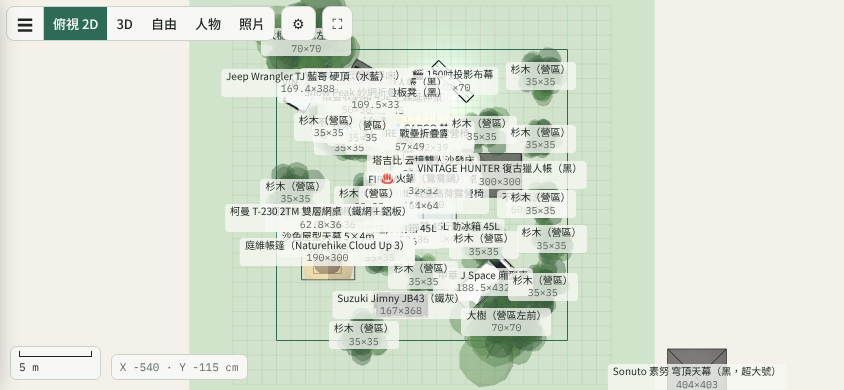
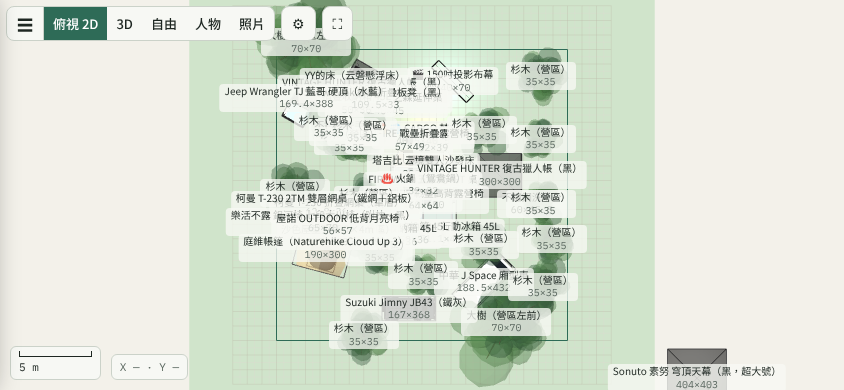
Update page to v30: phone joystick controls for walk/free views
Claude-Session: https://claude.ai/code/session_015AG5FpWVGwHVAoYj3Q14zK

Changed region(s): [[0.2464, 0.4923, 0.6161, 0.8308], [0.2464, 0.1538, 0.4929, 0.3385], [0.154, 0.8923, 0.3081, 0.9846]]

diff --git a/index.html b/index.html
@@ -91,6 +91,19 @@ input:focus-visible,select:focus-visible,button:focus-visible,textarea:focus-vis
 .overlay .empty{background:var(--panel);pointer-events:auto;max-width:320px;text-align:center}
 .photo{position:absolute;right:10px;bottom:10px;z-index:3;width:min(280px,calc(100% - 20px));background:var(--panel);border:1px solid var(--line);border-radius:8px;padding:10px;display:flex;flex-direction:column;gap:6px;font-size:12px;max-height:calc(100% - 70px);overflow:auto}
 .photo input[type=range]{width:100%}
+/* phone 人物/自由 controls: game-style translucent joystick on the right, round action buttons on the left */
+.fpTouch{position:absolute;inset:0;z-index:3;pointer-events:none;user-select:none;-webkit-user-select:none}
+.fpTouch[hidden]{display:none}
+.fpAct{position:absolute;left:max(14px,env(safe-area-inset-left,0px));bottom:16px;display:flex;flex-direction:column-reverse;gap:10px;pointer-events:auto}
+.fpRound{width:58px;height:58px;border-radius:50%;border:1.5px solid rgba(255,255,255,.55);background:rgba(20,25,22,.38);color:#fff;font-size:20px;line-height:1;display:flex;flex-direction:column;align-items:center;justify-content:center;gap:2px;cursor:pointer;touch-action:none;backdrop-filter:blur(3px);-webkit-backdrop-filter:blur(3px);text-shadow:0 1px 2px rgba(0,0,0,.5)}
+.fpRound span{font-size:10px;font-weight:700}
+.fpRound[aria-pressed="true"],.fpRound.on{background:rgba(76,175,130,.7);border-color:#fff}
+.joy{position:absolute;right:max(26px,env(safe-area-inset-right,0px));bottom:22px;width:150px;height:150px;border-radius:50%;background:radial-gradient(circle,rgba(255,255,255,.10) 0 55%,rgba(255,255,255,.22) 56% 100%);border:2px solid rgba(255,255,255,.5);pointer-events:auto;touch-action:none;backdrop-filter:blur(2px);-webkit-backdrop-filter:blur(2px)}
+.joyKnob{position:absolute;left:50%;top:50%;width:64px;height:64px;margin:-32px 0 0 -32px;border-radius:50%;background:rgba(255,255,255,.55);border:2px solid rgba(255,255,255,.85);box-shadow:0 2px 8px rgba(0,0,0,.3);transition:transform .12s}
+.joy.on .joyKnob{transition:none;background:rgba(255,255,255,.75)}
+.joyHint{position:absolute;left:50%;bottom:10px;transform:translateX(-50%);font-size:11px;color:#fff;background:rgba(0,0,0,.35);padding:3px 10px;border-radius:12px;white-space:nowrap;transition:opacity .6s}
+body.touchFP .fp{display:none!important}
+body.touchFP #hud{display:none}
 .fp{position:absolute;right:10px;bottom:10px;z-index:3;background:var(--panel);border:1px solid var(--line);border-radius:8px;padding:10px;display:flex;flex-direction:column;gap:8px;font-size:12px;align-items:center;user-select:none;-webkit-user-select:none;max-width:calc(100% - 20px)}
 .fpHelp{color:var(--muted,#777);line-height:1.5;max-width:220px}
 .fpPad{display:grid;grid-template-columns:repeat(3,44px);gap:4px}
@@ -184,6 +197,17 @@ body.hideSide aside{display:none}
       </div>
       <div class="labels" id="labels"></div>
       <div class="hud" id="hud"><div class="scale" id="scale"><div class="bar" id="scaleBar"></div><span id="scaleTxt">100 cm</span></div><div class="coord" id="coord">X — · Y —</div></div>
+      <div class="fpTouch" id="fpTouch" hidden>
+        <div class="fpAct" id="fpAct">
+          <button class="fpRound" data-pose="stand" aria-pressed="true">🧍<span>站</span></button>
+          <button class="fpRound" data-pose="sit" aria-pressed="false">🪑<span>坐下</span></button>
+          <button class="fpRound" data-pose="lie" aria-pressed="false">🛌<span>躺下</span></button>
+          <button class="fpRound" data-k="up" aria-label="上升">⬆<span>升</span></button>
+          <button class="fpRound" data-k="down" aria-label="下降">⬇<span>降</span></button>
+        </div>
+        <div class="joy" id="joy" aria-label="移動搖桿"><div class="joyKnob" id="joyKnob"></div></div>
+        <div class="joyHint" id="joyHint">右邊搖桿移動・拖曳畫面看四周</div>
+      </div>
       <div class="fp" id="fpPanel" hidden>
         <div class="fpHelp" id="fpHelp"></div>
         <div class="fpPad">
@@ -1117,7 +1141,7 @@ function updateOverlay(){
   m.textContent = msg; o.hidden = !msg;
   topCtl.enabled = U.tab==="layout" && U.view==="top"; perCtl.enabled = U.tab==="gear" || U.view==="3d";
   $("#hud").hidden = U.tab==="gear"; $("#photoPanel").hidden = !(U.tab==="layout" && U.view==="photo");
-  $("#fpPanel").hidden = !isFP(); if(isFP()) fpPanelUI();
+  $("#fpPanel").hidden = !isFP(); if(isFP()) fpPanelUI(); touchUI();
 }
 
 /* photo mode */
@@ -1206,7 +1230,24 @@ const POSE_EYE = {sit:105, lie:28};
 function eyeH(){ return POSE_EYE[FP.pose] || FP.eye; }
 function setPose(p){ const was=FP.pose; FP.pose=p; FP.y=eyeH();
   if(p==="lie") FP.pitch=0.75; else if(was==="lie") FP.pitch=-0.08;
-  document.querySelectorAll("#fpPose [data-pose]").forEach(b=>b.setAttribute("aria-pressed", String(b.dataset.pose===p))); fpApply(); }
+  document.querySelectorAll("[data-pose]").forEach(b=>b.setAttribute("aria-pressed", String(b.dataset.pose===p))); fpApply(); }
+$("#fpAct").addEventListener("click", e => { const b=e.target.closest("[data-pose]"); if(b) setPose(b.dataset.pose); });
+/* joystick: drag the knob; up = forward, sideways = step left/right, further = faster */
+FP.joy={f:0,st:0};
+(function(){ const J=$("#joy"), K=$("#joyKnob"), R=75; let id=null, cx=0, cy=0;
+  const set=(dx,dy)=>{ const d=Math.hypot(dx,dy), m=Math.min(1,d/R)/(d||1); const x=dx*m*R, y=dy*m*R; K.style.transform=`translate(${x}px,${y}px)`; FP.joy={f:-y/R, st:x/R}; };
+  J.addEventListener("pointerdown", e=>{ e.preventDefault(); e.stopPropagation(); id=e.pointerId; J.setPointerCapture(id); const r=J.getBoundingClientRect(); cx=r.left+r.width/2; cy=r.top+r.height/2; J.classList.add("on"); set(e.clientX-cx,e.clientY-cy); const h=$("#joyHint"); if(h) h.style.opacity="0"; });
+  J.addEventListener("pointermove", e=>{ if(e.pointerId!==id) return; set(e.clientX-cx,e.clientY-cy); });
+  const end=e=>{ if(e.pointerId!==id) return; id=null; J.classList.remove("on"); K.style.transform=""; FP.joy={f:0,st:0}; };
+  ["pointerup","pointercancel","lostpointercapture"].forEach(ev=>J.addEventListener(ev,end));
+  const A=$("#fpAct");
+  A.addEventListener("pointerdown", e=>{ const b=e.target.closest("[data-k]"); if(!b) return; e.preventDefault(); FP.keys[b.dataset.k]=true; b.classList.add("on"); b.setPointerCapture(e.pointerId); });
+  ["pointerup","pointercancel","lostpointercapture"].forEach(ev=>A.addEventListener(ev, e=>{ const b=e.target.closest("[data-k]"); if(!b) return; FP.keys[b.dataset.k]=false; b.classList.remove("on"); }));
+})();
+const coarse = matchMedia("(pointer:coarse)");
+function touchUI(){ const on = isFP() && coarse.matches; document.body.classList.toggle("touchFP", on); $("#fpTouch").hidden=!on;
+  if(on){ const walk=U.view==="walk"; document.querySelectorAll("#fpAct [data-pose]").forEach(b=>b.hidden=!walk); document.querySelectorAll("#fpAct [data-k]").forEach(b=>b.hidden=walk); } }
+coarse.addEventListener && coarse.addEventListener("change", touchUI);
 $("#fpPose").addEventListener("click", e => { const b=e.target.closest("[data-pose]"); if(b) setPose(b.dataset.pose); });
 function fpPanelUI(){
   const walk = U.view==="walk";
@@ -1232,6 +1273,7 @@ function fpStep(){
   if(k.left) FP.yaw+=turn; if(k.right) FP.yaw-=turn;
   const fx=-Math.sin(FP.yaw), fz=-Math.cos(FP.yaw), rx=Math.cos(FP.yaw), rz=-Math.sin(FP.yaw);
   let f=(k.fwd?1:0)-(k.back?1:0), st=(k.sr?1:0)-(k.sl?1:0);
+  if(FP.joy && (FP.joy.f||FP.joy.st)){ const m=Math.hypot(FP.joy.f,FP.joy.st), boost=m>0.92?1.8:1; f+=FP.joy.f*boost; st+=FP.joy.st*boost; }
   if(walk){ FP.x+=(fx*f+rx*st)*sp; FP.z+=(fz*f+rz*st)*sp; FP.y=eyeH(); }
   else { const cp=Math.cos(FP.pitch); FP.x+=(fx*cp*f+rx*st)*sp; FP.z+=(fz*cp*f+rz*st)*sp; FP.y+=Math.sin(FP.pitch)*f*sp + ((k.up?1:0)-(k.down?1:0))*sp; FP.y=Math.max(20,FP.y); }
   fpApply();
